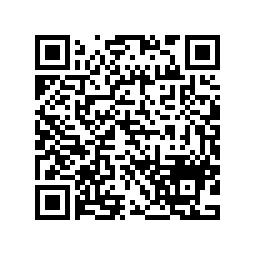
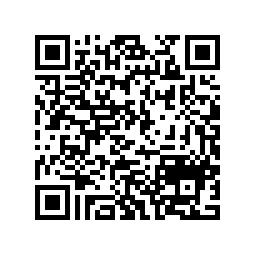
Лаб 5

Changed region(s): [[0.125, 0.125, 0.6875, 0.875], [0.8125, 0.7188, 0.875, 0.7812]]

diff --git a/Lab_5_v.2.0/src/main/java/com/company/Main.java b/Lab_5_v.2.0/src/main/java/com/company/Main.java
@@ -10,21 +10,18 @@ public class Main {
     static FornitureItem fi;
     static boolean isFrame = false;
     public static void main(String[] args) {
-
-        String[] OK = {
+        String[] classString = {
                 "Chair",
                 "Table"
         };
-
         JFrame frame = new JFrame("Choose your class");
         JLabel labelMaterial = new JLabel("Material");
         JLabel labelForm = new JLabel("Form");
         JButton btn1 = new JButton("Show all parameters");
         JButton btn2 = new JButton("Set legs number");
-        JComboBox CB = new JComboBox(OK);
+        JComboBox comboBoxClass = new JComboBox(classString);
         JTextArea textArea = new JTextArea();
         JTextField textField = new JTextField();
-
         JPanel panel = new JPanel();
 
         frame.setDefaultCloseOperation(JFrame.EXIT_ON_CLOSE);
@@ -33,20 +30,18 @@ public class Main {
 
         frame.add(panel, BorderLayout.NORTH);
         panel.setLayout(new GridLayout(1,1));
-        panel.add(CB);
+        panel.add(comboBoxClass);
 
-        ActionListener actionListenerCB = new ActionListener() {
+        ActionListener actionListenerComboBoxClass = new ActionListener() {
             @Override
             public void actionPerformed(ActionEvent e) {
                 JFrame frame2;
                 textArea.setText("");
                 String varFrame;
-
                 if(isFrame == true){
                     fi.destructForm();
                 };
-
-                switch (CB.getSelectedItem().toString()) {
+                switch (comboBoxClass.getSelectedItem().toString()) {
                     case "Chair":
                         fi = new Chair();
                         varFrame = "Chair";
@@ -65,19 +60,17 @@ public class Main {
                         throw new IllegalStateException("Incorrect furniture type");
                         //break;
                 }
-
                 isFrame = true;
                 frame2 = new JFrame(varFrame);
                 fi.buildForm(frame2, labelMaterial, labelForm, btn1, btn2, textArea, textField);
             }
         };
-        CB.addActionListener(actionListenerCB);
+        comboBoxClass.addActionListener(actionListenerComboBoxClass);
 
         btn1.addActionListener(new ActionListener() {
             @Override
             public void actionPerformed(ActionEvent e) {
                 textArea.setText(fi.toString());
-                fi = new Table();
             }
         });
 
@@ -103,9 +96,7 @@ public class Main {
             }
 
             @Override
-            public void changedUpdate(DocumentEvent e) {
-
-            }
+            public void changedUpdate(DocumentEvent e) {}
         });
 
         btn2.addActionListener(new ActionListener() {

diff --git a/Lab_5_v.2.0/src/main/java/com/company/FornitureItem.java b/Lab_5_v.2.0/src/main/java/com/company/FornitureItem.java
@@ -7,7 +7,6 @@ import java.awt.event.ActionEvent;
 import java.awt.event.ActionListener;
 import java.awt.event.ItemEvent;
 import java.awt.event.ItemListener;
-
 import java.awt.Graphics;
 import java.awt.Image;
 import java.io.File;
@@ -89,25 +88,12 @@ public class FornitureItem extends JPanel{
         JPanel checkBoxPanel = new JPanel();
         JPanel textFieldPanel = new JPanel();
         JPanel imgPanel = new JPanel();
-
         JCheckBox checkBox1 = new JCheckBox(varName1());
         JCheckBox checkBox2 = new JCheckBox(varName2());
-
         JLabel labelExt = new JLabel(labelText());
-
         JComboBox comboBoxMaterial = new JComboBox(this.itemsMaterial);
         JComboBox comboBoxForm = new JComboBox(this.itemsForm);
-
         JComboBox comboBoxSubMaterial = new JComboBox(ik());
-
-
-//        FornitureItem game = new FornitureItem();
-//        game.setSize(256, 256);
-
-
-
-
-
 
         mainFrame.setDefaultCloseOperation(JFrame.DISPOSE_ON_CLOSE);
         mainFrame.setSize(500, 355);
@@ -124,7 +110,6 @@ public class FornitureItem extends JPanel{
         panel.add(textFieldPanel);
         panel.add(btn1);
         mainFrame.add(imgPanel, BorderLayout.CENTER);
-//        mainFrame.add(textArea, BorderLayout.CENTER);
 
         textFieldPanel.setLayout(new GridLayout(2,1));
         textFieldPanel.add(textField);

diff --git a/Lab_5_v.2.0/src/main/java/com/company/QRCodeGenerator.java b/Lab_5_v.2.0/src/main/java/com/company/QRCodeGenerator.java
@@ -4,14 +4,13 @@ import com.google.zxing.BarcodeFormat;
 import com.google.zxing.WriterException;
 import com.google.zxing.common.BitMatrix;
 import com.google.zxing.qrcode.QRCodeWriter;
-
 import javax.imageio.ImageIO;
 import java.awt.image.BufferedImage;
 import java.io.File;
 import java.io.IOException;
 
 public class QRCodeGenerator {
-    public static void maqin(String text) {
+    public static void codeGen(String text) {
         QRCodeWriter writer = new QRCodeWriter();
         int width = 256, height = 256;
         BufferedImage image = new BufferedImage(width, height, BufferedImage.TYPE_INT_RGB); // create an empty image

diff --git a/Lab_5_v.2.0/src/main/java/com/company/Chair.java b/Lab_5_v.2.0/src/main/java/com/company/Chair.java
@@ -49,9 +49,11 @@ public class Chair extends FornitureItem {
                         "Coating : " +
                         Boolean.toString(this.getChecker2()) +
                         "\n";
-        str = "1";
-        QRCodeGenerator qrcg = new QRCodeGenerator();
-        qrcg.maqin(str);
+        str = str1 + str2;
+        QRCodeGenerator makeQR = new QRCodeGenerator();
+        makeQR.codeGen(str);
+        loadImage();
+        repaint();
 
         return str1 + str2;
     };

diff --git a/Lab_5_v.2.0/src/main/java/com/company/Table.java b/Lab_5_v.2.0/src/main/java/com/company/Table.java
@@ -53,8 +53,8 @@ public class Table extends FornitureItem {
                         "\n";
 
         str = str1 + str2;
-        QRCodeGenerator qrcg = new QRCodeGenerator();
-        qrcg.maqin(str);
+        QRCodeGenerator makeQR = new QRCodeGenerator();
+        makeQR.codeGen(str);
         loadImage();
         repaint();
 
